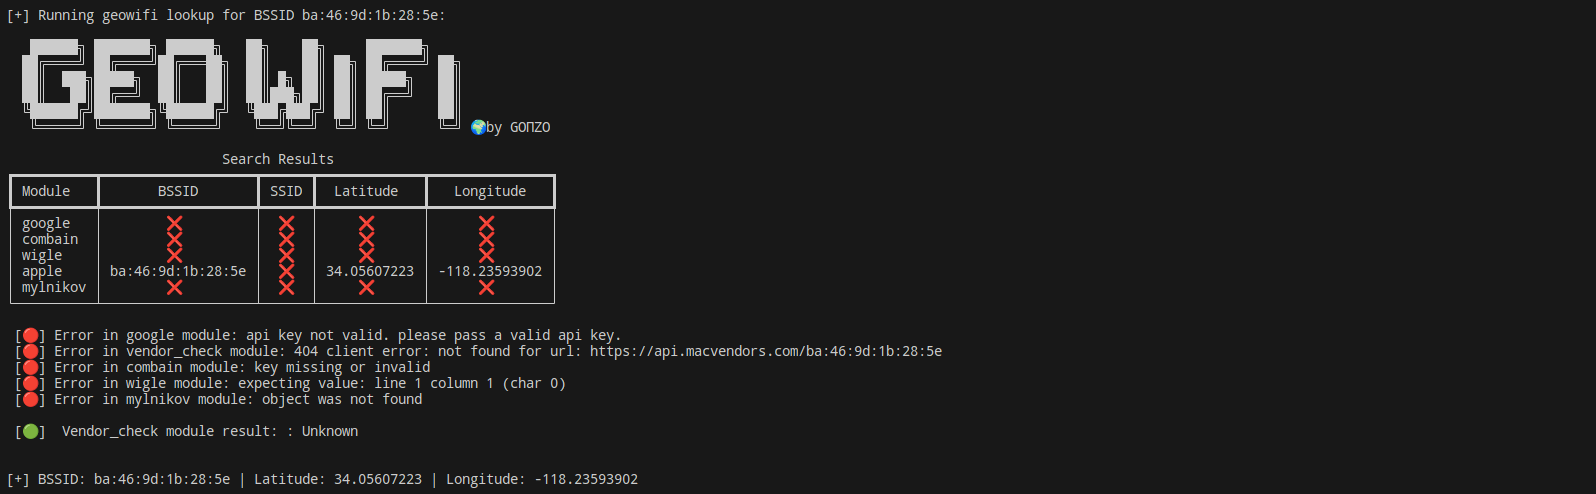
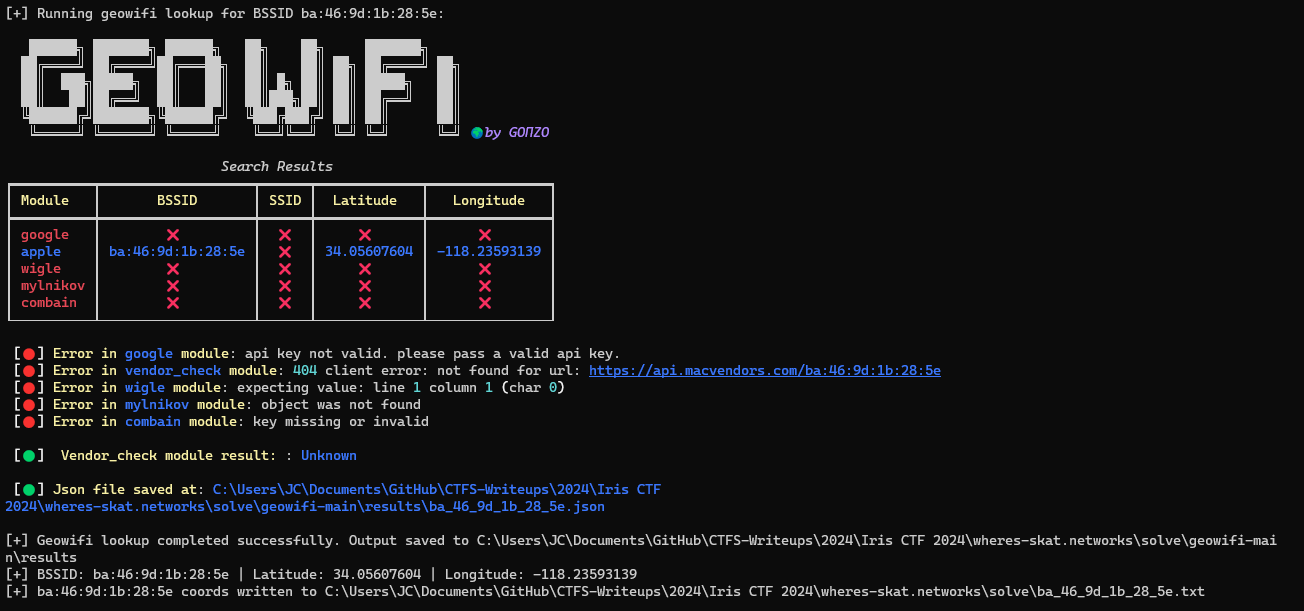
refactor(wheres-skat): rely on geowifi's json output instead of stdout

Changed region(s): [[0.0, 0.0, 0.9816, 1.0]]

diff --git a/2024/Iris CTF 2024/wheres-skat.networks/solve.py b/2024/Iris CTF 2024/wheres-skat.networks/solve.py
@@ -12,13 +12,14 @@ import os
 import urllib.request
 import subprocess
 import webbrowser
+import json
 
 RESOURCE_URL = "https://cdn.2024.irisc.tf/wheres-skat.tar.gz"
 
 RESOURCE1_PATH = os.path.join(".", "recurso", "wheres-skat.tar.gz")
 SOLVE_FILES_PATH = os.path.join(".", "solve")
 RESOURCE2_PATH = os.path.join(SOLVE_FILES_PATH, "wheres-skat", "wheres-skat.zip")
-GEOWIFI_PATH = os.path.join(SOLVE_FILES_PATH, "geowifi-main", "geowifi.py")
+GEOWIFI_PATH = os.path.join(SOLVE_FILES_PATH, "geowifi-main")
 PCAP_FILE = os.path.join(SOLVE_FILES_PATH, "wheres-skat.pcap")
 
 # GitHub repository URL
@@ -65,37 +66,50 @@ def download_and_extract_github_repo(repo_url, target_folder):
 
     print(f"Repository downloaded and extracted to {target_folder}")
 
-def extract_lat_lon_from_output(output):
-    for line in output.split('\n'):
-        if 'apple' in line:
-            parts = line.split('│')
-            if len(parts) >= 6:
-                lat = parts[4].strip()
-                lng = parts[5].strip()
-                return lat, lng
-    return None, None
-
 def geowifi_lookup(geowifi_path, target_bssid):
-    arguments = ['-s', 'bssid', target_bssid]
+    arguments = ['-s', 'bssid', target_bssid, '-ojson']
+
     try:
+        # Ensure geowifi_path is an absolute path
+        geowifi_path = os.path.abspath(geowifi_path)
+        
         print(f'[+] Running geowifi lookup for BSSID {arguments[2]}:')
-        process_output = subprocess.check_output(['python', geowifi_path] + arguments, text=True)
-        print(process_output)
-        lat, lng = extract_lat_lon_from_output(process_output)
+        
+        # Use subprocess.run to run geowifi. Change the working directory (cwd) so it can find the /results folder
+        subprocess.run(['python', "geowifi.py"] + arguments, check=True, cwd=geowifi_path)
 
-        if lat is not None and lng is not None:
-            d = dict()
-            d['lat'] = lat
-            d['lng'] = lng
-            return d
+        results_path = os.path.join(geowifi_path, "results")
+        print(f'[+] Geowifi lookup completed successfully. Output saved to {results_path}')
+
+        # Get the last modified json file in geowifi_path + "/results"
+        results_files = [os.path.join(results_path, f) for f in os.listdir(results_path) if os.path.isfile(os.path.join(results_path, f))]
+        results_files.sort(key=lambda x: os.path.getmtime(x))
+        results_file = results_files[-1]
+
+        # Read the results_file json, extract latitude and longitude and create a dictionary
+        with open(results_file, 'r') as file:
+            data = json.load(file)
+
+        # Find the "apple" module in the list
+        apple_data = next((item for item in data if item.get('module') == 'apple'), None)
+
+        if apple_data:
+            # Extract latitude and longitude
+            latitude = apple_data.get('latitude')
+            longitude = apple_data.get('longitude')
+
+            # Create a dictionary with latitude and longitude
+            location_dict = {'latitude': latitude, 'longitude': longitude}
+
+            return location_dict
         else:
-            print("[-] Latitude and longitude not found in the output.")
+            print("[-] No 'apple' module found in the JSON data.")
             return None
-
+        
     except subprocess.CalledProcessError as e:
-        print(f"[-] Error during geowifi lookup: {e}")
+        print(f'[-] Error running geowifi: {e.stderr}')
     except Exception as e:
-        print(f"[-] An error occurred: {e}")
+        print(f'[-] An unexpected error occurred: {e}')
 
 if __name__ == "__main__":
 
@@ -183,17 +197,24 @@ if __name__ == "__main__":
     for target_bssid in target_bssids:
         geowifi_dict[target_bssid] = geowifi_lookup(GEOWIFI_PATH, target_bssid)
         if geowifi_dict[target_bssid]:
-            print(f"[+] BSSID: {target_bssid} | Latitude: {geowifi_dict[target_bssid]['lat']} | Longitude: {geowifi_dict[target_bssid]['lng']}")
+            print(f"[+] BSSID: {target_bssid} | Latitude: {geowifi_dict[target_bssid]['latitude']} | Longitude: {geowifi_dict[target_bssid]['longitude']}")
+            # Save BSSID, latitude, longitude to SOLVE_FILES_PATH + target_bssid (replace : with _) + ".txt"
+            bssid_flag_path = os.path.join(SOLVE_FILES_PATH, target_bssid.replace(':', '_') + ".txt")
+            with open(bssid_flag_path, 'w') as file:
+                file.write(f'BSSID: {target_bssid}\n')
+                file.write(f'Latitude: {geowifi_dict[target_bssid]["latitude"]}\n')
+                file.write(f'Longitude: {geowifi_dict[target_bssid]["longitude"]}\n')
+                print(f"[+] {target_bssid} coords written to {os.path.abspath(bssid_flag_path)}")
             print()
     
     print("[+] Lat, Lng for BSSIDs")
     for key, value in geowifi_dict.items():
         print(f'BSSID:{key}: {value}')
-        url = f'https://www.google.com/maps/place/{value["lat"]},{value["lng"]}'
+        url = f'https://www.google.com/maps/place/{value["latitude"]},{value["longitude"]}'
         print()
         print(f'[+] Launching google maps on default web browser. URL: {url}')
         print()
         webbrowser.open(url)
     
     print()
-    print(f"Get the location's name using google maps.")
+    print(f"[+] FLAG: Get the location's name using google maps. Format: 'irisctf{{location_name}}'")
